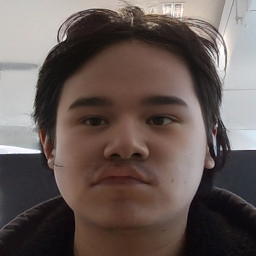
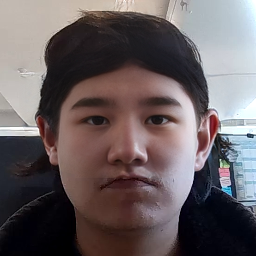
modified(flake.nix): changed flake.lock to be the same as VR Headset filter

diff --git a/README.md b/README.md
@@ -32,7 +32,13 @@ and we encourage you to check out their projects as well:
 Must have nix installed.
 ```
 cd EXE-GAN project
-nix develop
+
+nix develop # Install it the nix way
+
+# OR
+
+pip install -r requirements.txt # Install it the python way. If you use this you will need to install the CUDA drivers by yourself
+
 ```
 - Note that other versions of PyTorch (e.g., higher than 1.7) also work well, but you have to install the corresponding CUDA version. 
 
@@ -96,65 +102,21 @@ root/
 
 
 
-## Exemplar-guided facial image recovery 
+## Exemplar-guided facial image recovery => This is used together with [VR HEADSET FILTER](https://github.com/mana-byte/VR-Headset-filter)
 #### Notice 
 - For editing images from the web, photos should be aligned by face landmarks and cropped to 256x256 by [align_face](https://github.com/ZPdesu/Barbershop/blob/main/align_face.py).
 
 (use our FFHQ_60k pre-trained model [EXE_GAN_model.pt](https://drive.google.com/file/d/1y7ThKBXL7QK7CPtvT3KICeNOu1T2xlCA/view?usp=drive_link) or trained *pt file by yourself.)
 > python guided_recovery.py --psp_checkpoint_path ./pre-train/psp_ffhq_encode.pt
---ckpt  ./checkpoint/EXE_GAN_model.pt  --masked_dir ./imgs/exe_guided_recovery/mask --gt_dir ./imgs/exe_guided_recovery/target --exemplar_dir ./imgs/exe_guided_recovery/exemplar --sample_times 10
+--ckpt  ./checkpoint/EXE_GAN_model.pt  --masked_dir ./imgs/exe_guided_recovery/mask --gt_dir ./imgs/exe_guided_recovery/target --exemplar_dir ./imgs/exe_guided_recovery/exemplar --sample_times 1 --video_output ./output.mp4
 > --eval_dir ./recover_out  
 ```
 - masked_dir: mask input folder
 - gt_dir: the input gt_dir, used for  editing 
 - exemplar_dir: exemplar_dir, the exemplar dir, for guiding the editing
 - eval_dir: output dir
+- video_output: video output dir
 ```
-| <img src="./imgs/exe_guided_recovery/target/1_real.png"  height=180 width=180 alt="Ground-truth"> | <img src="./imgs/exe_guided_recovery/mask/1_mask.png" width=180 height=180 alt="Masked "> | <img src="./imgs/exe_guided_recovery/exemplar/1_exe.png" height=180 width=180 alt=" "> |<img src="./imgs/exe_guided_recovery/recover_out/1_inpaint.png" height=180 width=180 alt=" "> |
-| :----------------------------------------------------------: | :----------------------------------------------------------: | :----------------------------------------------------------: |:----------------------------------------------------------: |
-| <img src="./imgs/exe_guided_recovery/target/2_real.png"  height=180 width=180 alt="Ground-truth"> | <img src="./imgs/exe_guided_recovery/mask/2_mask.png" width=180 height=180 alt="Masked "> | <img src="./imgs/exe_guided_recovery/exemplar/2_exe.png" height=180 width=180 alt=" "> |<img src="./imgs/exe_guided_recovery/recover_out/2_inpaint.png" height=180 width=180 alt=" "> |
-| <img src="./imgs/exe_guided_recovery/target/3_real.png"  height=180 width=180 alt="Ground-truth"> | <img src="./imgs/exe_guided_recovery/mask/3_mask.png" width=180 height=180 alt="Masked "> | <img src="./imgs/exe_guided_recovery/exemplar/3_exe.png" height=180 width=180 alt=" "> |<img src="./imgs/exe_guided_recovery/recover_out/3_inpaint.png" height=180 width=180 alt=" "> |
-| <img src="./imgs/exe_guided_recovery/target/4_real.png"  height=180 width=180 alt="Ground-truth"> | <img src="./imgs/exe_guided_recovery/mask/4_mask.png" width=180 height=180 alt="Masked "> | <img src="./imgs/exe_guided_recovery/exemplar/4_exe.png" height=180 width=180 alt=" "> |<img src="./imgs/exe_guided_recovery/recover_out/4_inpaint.png" height=180 width=180 alt=" "> |
-|          Ground-truth                        |                      Mask                               | Exemplar       | Inpainted  | 
-
-- Inherent diversity, set ``--sample_times 10``  higher to get more diverse results.
-
-| <img src="./imgs/exe_guided_recovery/diversity/1_0_inpaint.png"  height=180 width=180 alt="Ground-truth"> | <img src="./imgs/exe_guided_recovery/diversity/1_1_inpaint.png" width=180 height=180 alt="Masked "> | <img src="./imgs/exe_guided_recovery/diversity/1_2_inpaint.png" height=180 width=180 alt=" "> |<img src="./imgs/exe_guided_recovery/diversity/1_3_inpaint.png" height=180 width=180 alt=" "> |
-| :----------------------------------------------------------: | :----------------------------------------------------------: | :----------------------------------------------------------: |:----------------------------------------------------------: |
-|          diversity 1                       |                      diversity 2                               | diversity 3       | diversity 4  | 
-
-
-
-## Exemplar guided style mixing 
-#### Notice 
-- For editing images from the web, photos should be aligned by face landmarks and cropped to 256x256 by [align_face](https://github.com/ZPdesu/Barbershop/blob/main/align_face.py).
-
-(use our FFHQ_60k pre-trained model [EXE_GAN_model.pt](https://drive.google.com/file/d/1y7ThKBXL7QK7CPtvT3KICeNOu1T2xlCA/view?usp=drive_link) or trained *pt file by yourself.)
-> python exemplar_style_mixing.py --psp_checkpoint_path ./pre-train/psp_ffhq_encode.pt
---ckpt  ./checkpoint/EXE_GAN_model.pt  --masked_dir ./imgs/exe_guided_recovery/mask --gt_dir ./imgs/exe_guided_recovery/target --exemplar_dir ./imgs/exe_guided_recovery/exemplar --sample_times 2
-> --eval_dir mixing_out  
-
-```
-- masked_dir: mask input folder
-- gt_dir: the input gt_dir, used for  editing 
-- exemplar_dir: exemplar_dir, the exemplar dir, for guiding the editing
-- eval_dir: output dir
-- size 256 for 256X256 images and  512 for  512X512 images
-```
-- Inputs are shown below:
-
-| <img src="./imgs/exe_guided_recovery/style_mixing/1_real.png"  height=180 width=180 alt="Ground-truth"> | <img src="./imgs/exe_guided_recovery/style_mixing/1_mask.png" width=180 height=180 alt="Masked "> | <img src="./imgs/exe_guided_recovery/style_mixing/1_exe1.png" height=180 width=180 alt=" "> |<img src="./imgs/exe_guided_recovery/style_mixing/1_exe2.png" height=180 width=180 alt=" "> |
-| :----------------------------------------------------------: | :----------------------------------------------------------: | :----------------------------------------------------------: |:----------------------------------------------------------: |
-|         Ground-truth                      |                      Mask                              | Exemplar 1       | Exemplar 2  | 
-
-- Style mixing results
-
-| <img src="./imgs/exe_guided_recovery/mixing_out/1_0_0_inpaint2.png"  height=180 width=180 alt="Ground-truth"> | <img src="./imgs/exe_guided_recovery/mixing_out/1_1_0_inpaint2.png" width=180 height=180 alt="Masked "> | <img src="./imgs/exe_guided_recovery/mixing_out/1_2_0_inpaint2.png" height=180 width=180 alt=" "> |<img src="./imgs/exe_guided_recovery/mixing_out/1_3_0_inpaint2.png" height=180 width=180 alt=" "> |
-| :----------------------------------------------------------: | :----------------------------------------------------------: | :----------------------------------------------------------: |:----------------------------------------------------------: |
-| <img src="./imgs/exe_guided_recovery/mixing_out/1_4_0_inpaint2.png"  height=180 width=180 alt="Ground-truth"> | <img src="./imgs/exe_guided_recovery/mixing_out/1_5_0_inpaint2.png" width=180 height=180 alt="Masked "> | <img src="./imgs/exe_guided_recovery/mixing_out/1_6_0_inpaint2.png" height=180 width=180 alt=" "> |<img src="./imgs/exe_guided_recovery/mixing_out/1_7_0_inpaint2.png" height=180 width=180 alt=" "> |
-| <img src="./imgs/exe_guided_recovery/mixing_out/1_0_0_inpaint.png"  height=180 width=180 alt="Ground-truth"> | <img src="./imgs/exe_guided_recovery/mixing_out/1_1_0_inpaint.png" width=180 height=180 alt="Masked "> | <img src="./imgs/exe_guided_recovery/mixing_out/1_2_0_inpaint.png" height=180 width=180 alt=" "> |<img src="./imgs/exe_guided_recovery/mixing_out/1_3_0_inpaint.png" height=180 width=180 alt=" "> |
-| <img src="./imgs/exe_guided_recovery/mixing_out/1_4_0_inpaint.png"  height=180 width=180 alt="Ground-truth"> | <img src="./imgs/exe_guided_recovery/mixing_out/1_5_0_inpaint.png" width=180 height=180 alt="Masked "> | <img src="./imgs/exe_guided_recovery/mixing_out/1_6_0_inpaint.png" height=180 width=180 alt=" "> |<img src="./imgs/exe_guided_recovery/mixing_out/1_7_0_inpaint.png" height=180 width=180 alt=" "> |
-
 
 ## Editing masks by yourself 
 ![gen_mask](./imgs/Mask_gen.gif)
